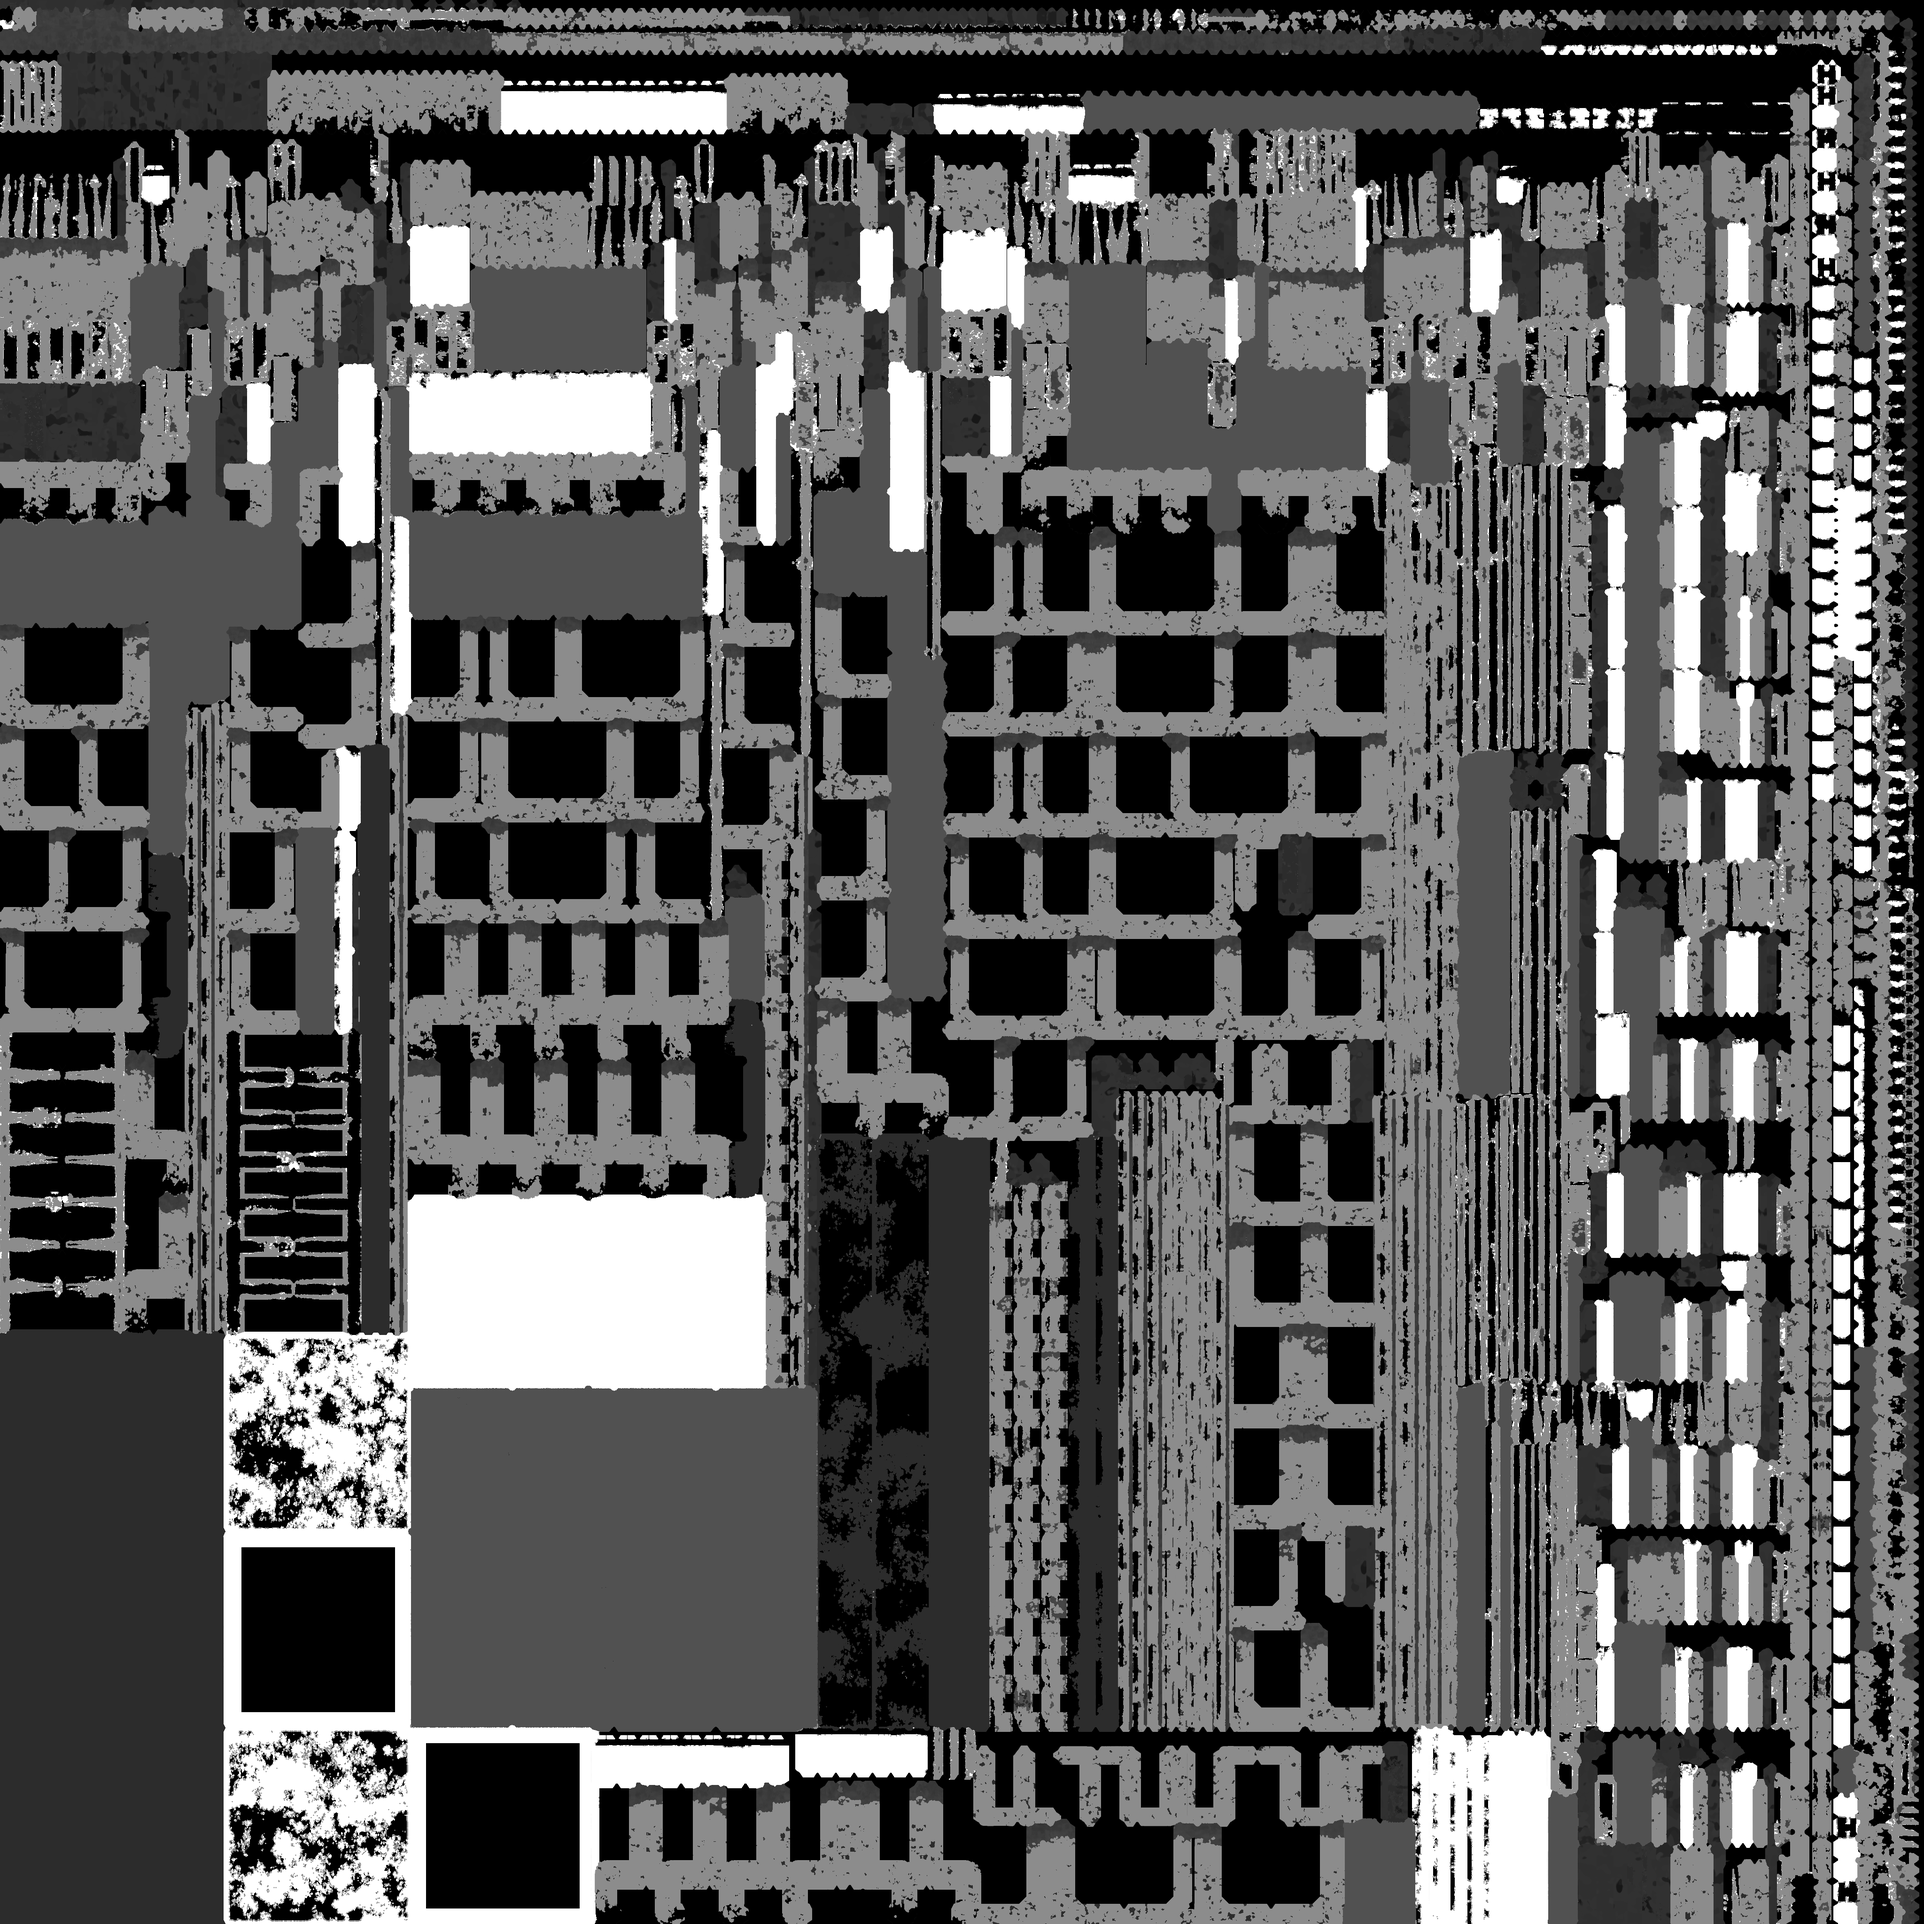
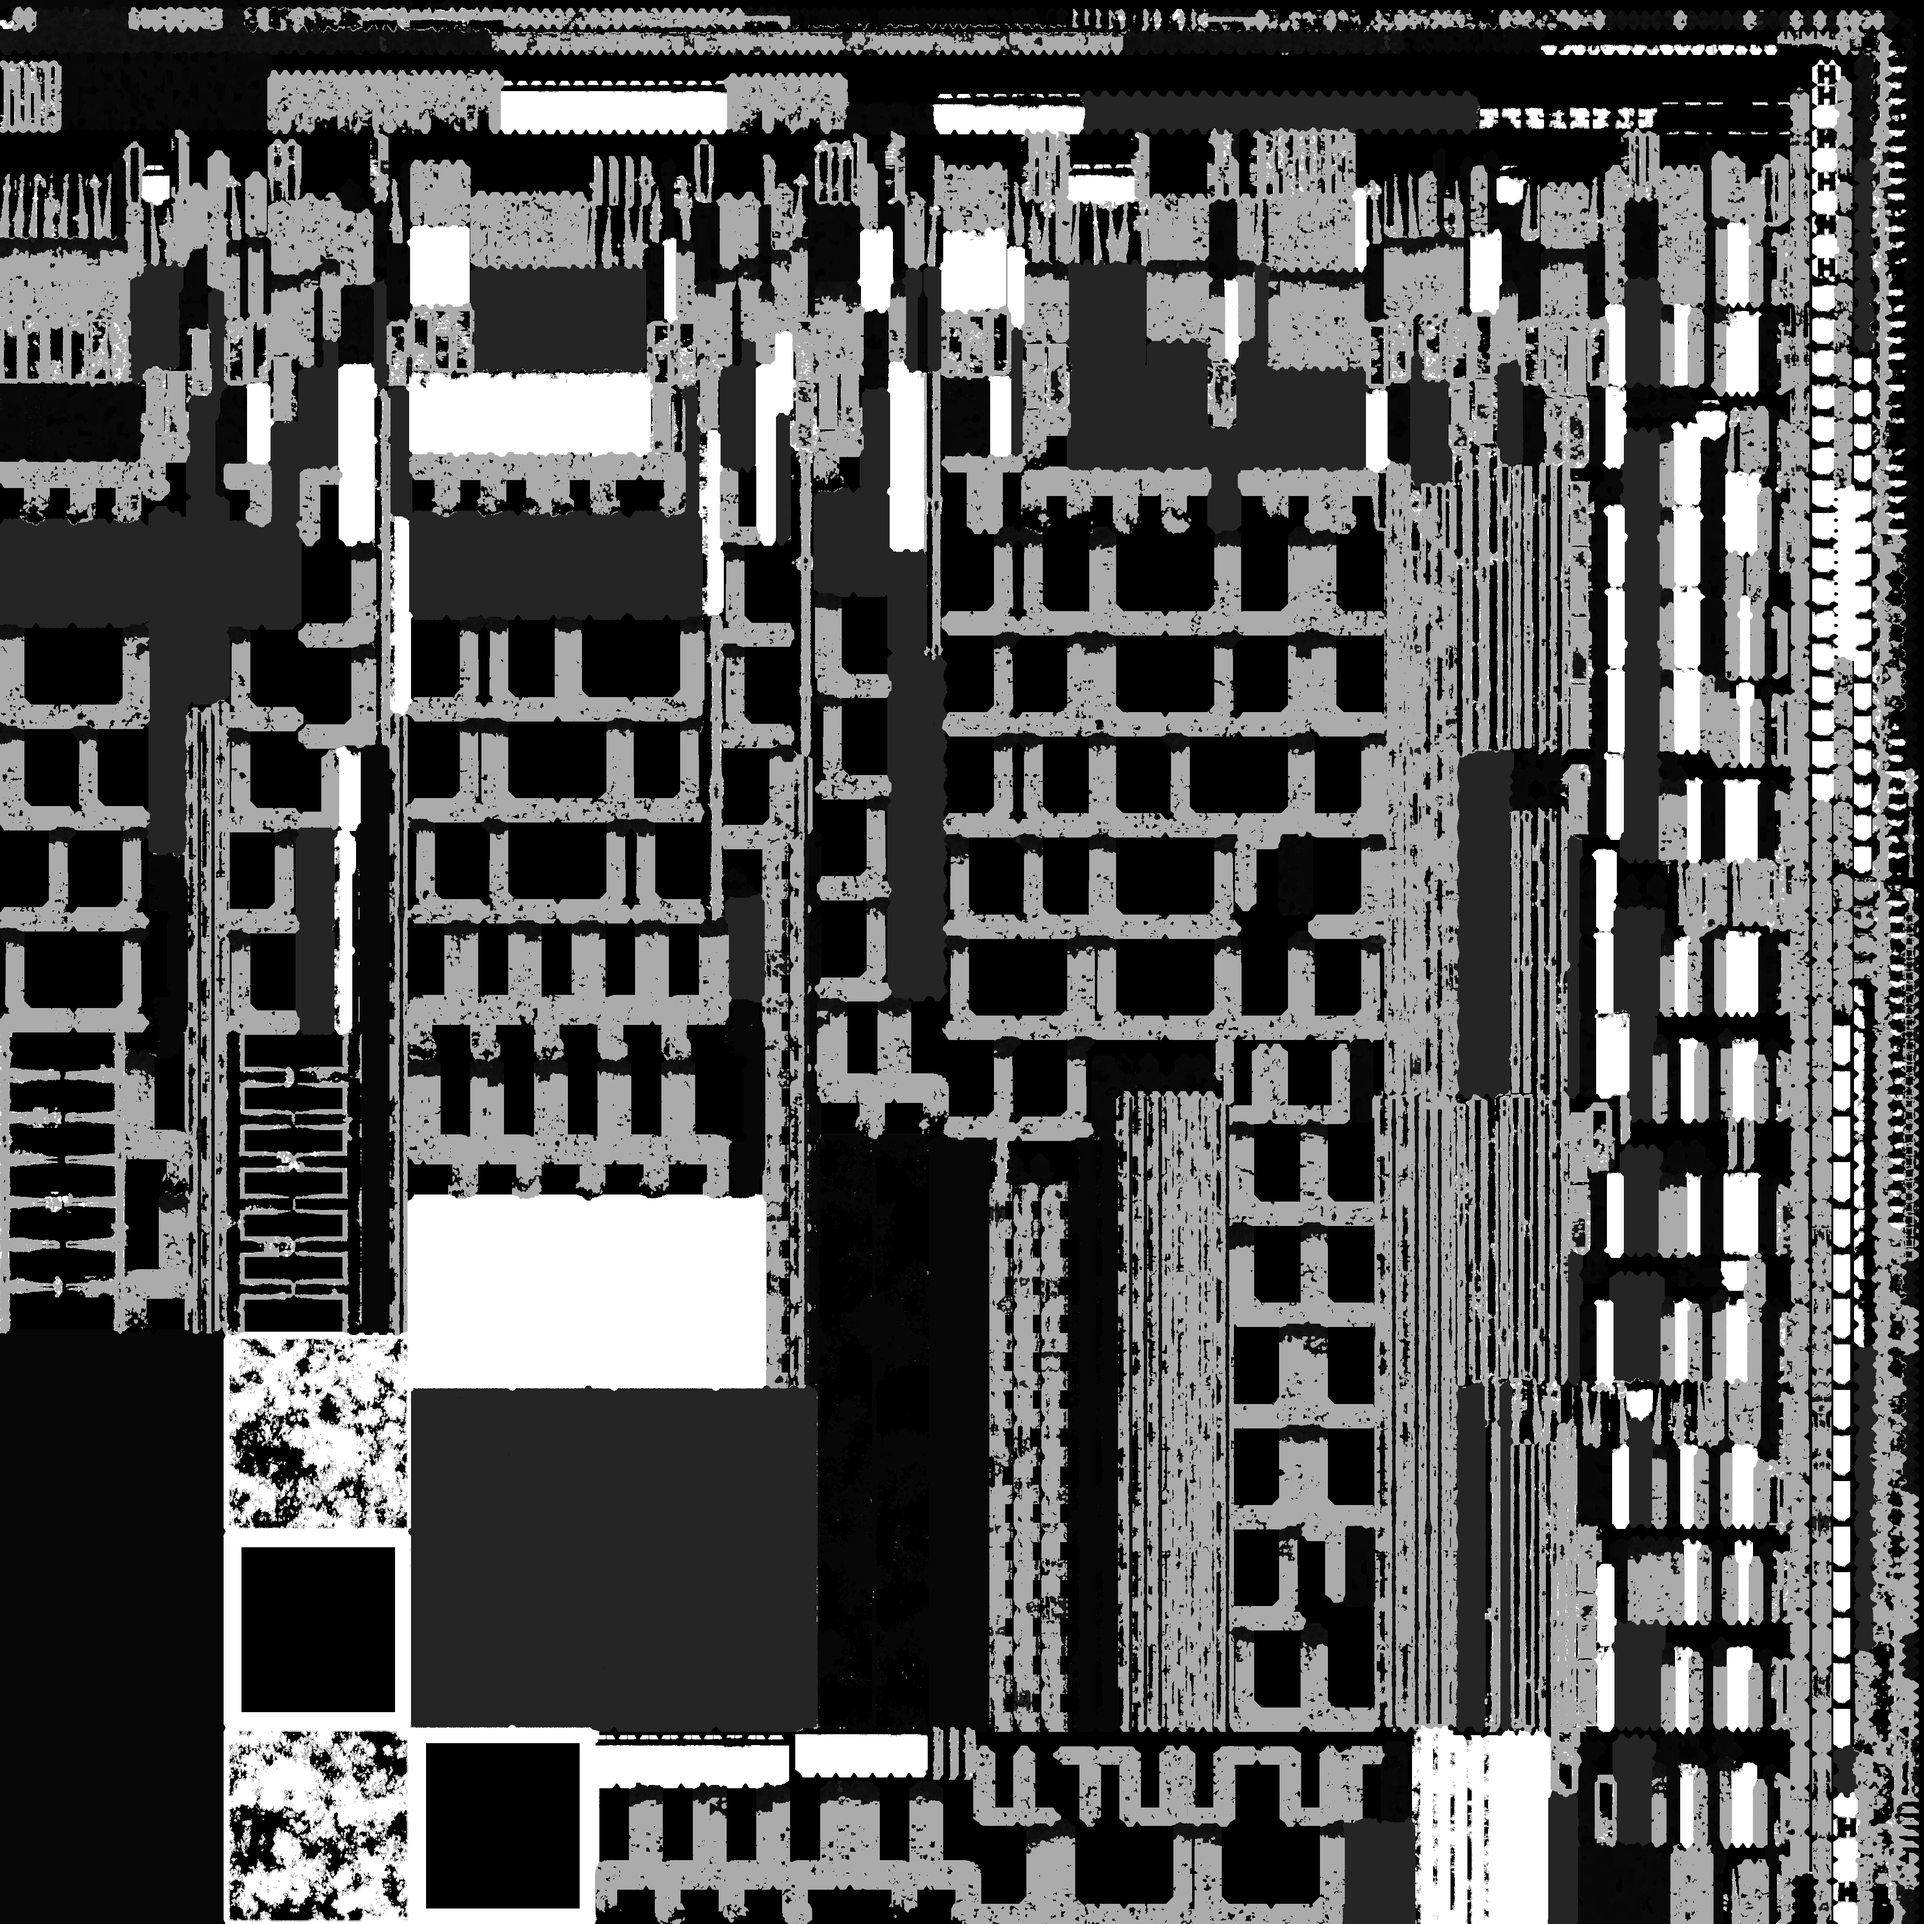
Working Specularity

diff --git a/Exercise2.cpp b/Exercise2.cpp
@@ -100,7 +100,7 @@ std::vector<float> station = {};
 GLuint vao;
 GLuint vbo;
 GLuint shader;
-GLuint texture[2];
+GLuint texture[3];
 
 double previousTime = 0.0;
 
@@ -193,11 +193,13 @@ bool setup()
     glUseProgram(shader);
     glUniform1i(glGetUniformLocation(shader, "diffuseMap"), 0);
     glUniform1i(glGetUniformLocation(shader, "normalMap"),  1);
+    glUniform1i(glGetUniformLocation(shader, "specularMap"),  2);
 
     // load our textures
     texture[0] = gdevLoadTexture("tex-station.png", GL_REPEAT, true, true);
     texture[1] = gdevLoadTexture("TrainStationNormal.png", GL_REPEAT, true, true);
-    if (! texture[0] || ! texture[1])
+    texture[2] = gdevLoadTexture("TrainStationSpecular.png", GL_REPEAT, true, true);
+    if (! texture[0] || ! texture[1] || !texture[2])
         return false;
 
     // enable z-buffer depth testing and face culling
@@ -249,6 +251,8 @@ void render()
     glBindTexture(GL_TEXTURE_2D, texture[0]);
     glActiveTexture(GL_TEXTURE1);
     glBindTexture(GL_TEXTURE_2D, texture[1]);
+    glActiveTexture(GL_TEXTURE2);
+    glBindTexture(GL_TEXTURE_2D, texture[2]);
 
     // ... then draw our triangles
     glBindVertexArray(vao);
